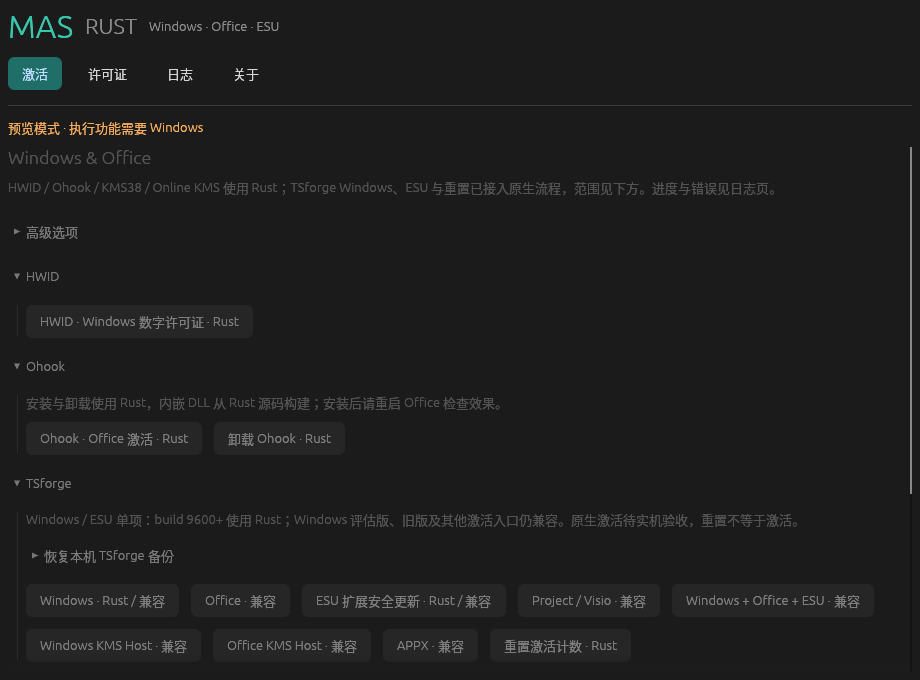
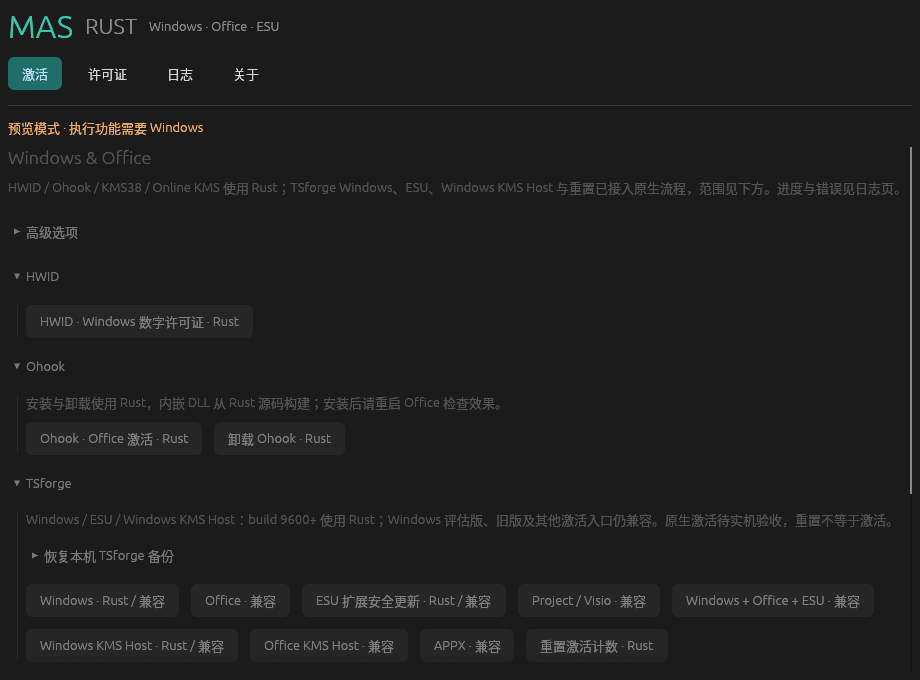
Enable native Windows KMS Host GUI entry and document its effects

Changed region(s): [[0.487, 0.2471, 0.9739, 0.3088], [0.1217, 0.7412, 0.9739, 0.7721], [0.1826, 0.9265, 0.7, 0.9574]]

diff --git a/src/app.rs b/src/app.rs
@@ -88,7 +88,7 @@ impl MasApp {
     }
     fn activation(&mut self, ui: &mut egui::Ui) {
         ui.heading("Windows & Office");
-        ui.label("HWID / Ohook / KMS38 / Online KMS 使用 Rust；TSforge Windows、ESU 与重置已接入原生流程，范围见下方。进度与错误见日志页。");
+        ui.label("HWID / Ohook / KMS38 / Online KMS 使用 Rust；TSforge Windows、ESU、Windows KMS Host 与重置已接入原生流程，范围见下方。进度与错误见日志页。");
         ui.add_space(8.0);
         ui.collapsing("高级选项", |ui| {
             ui.checkbox(
@@ -123,7 +123,7 @@ impl MasApp {
                     ui.colored_label(Color32::from_rgb(245,172,92), "历史功能：上游已移除；build 26100.7019 起相关机制失效。请核对系统兼容性。");
                 }
                 if category == "Ohook" {ui.label("安装与卸载使用 Rust，内嵌 DLL 从 Rust 源码构建；安装后请重启 Office 检查效果。");}
-                if category == "TSforge" { ui.label("Windows / ESU 单项：build 9600+ 使用 Rust；Windows 评估版、旧版及其他激活入口仍兼容。原生激活待实机验收，重置不等于激活。"); }
+                if category == "TSforge" { ui.label("Windows / ESU / Windows KMS Host：build 9600+ 使用 Rust；Windows 评估版、旧版及其他激活入口仍兼容。原生激活待实机验收，重置不等于激活。"); }
                 if category == "Online KMS" {
                     ui.label("原生支持 Windows、Office C2R 许可转换和 MSI 批量许可；可禁止自动转换。高级选项可指定服务器和端口，旧任务卸载仍在兼容菜单。");
                 }
@@ -140,7 +140,7 @@ impl MasApp {
                 }
                 ui.horizontal_wrapped(|ui| {
                     for op in engine::OPERATIONS.iter().filter(|op| op.category == category) {
-                        if ui.button(format!("{} · {}", op.title, if matches!(op.args, ["/Z-Windows"] | ["/Z-ESU"]) { "Rust / 兼容" } else if engine::is_native(*op) { "Rust" } else { "兼容" })).clicked() { self.pending = Some(Job::Engine(*op, self.options.clone())); }
+                        if ui.button(format!("{} · {}", op.title, if matches!(op.args, ["/Z-Windows"] | ["/Z-ESU"] | ["/Z-WinHost"]) { "Rust / 兼容" } else if engine::is_native(*op) { "Rust" } else { "兼容" })).clicked() { self.pending = Some(Job::Engine(*op, self.options.clone())); }
                     }
                 });
             });
@@ -347,6 +347,10 @@ impl MasApp {
                             }
                             if op.args == ["/Z-Reset"] {
                                 ui.label("将重置许可存储中的 rearm 计数、宽限/评估计时器及相关标记。每个阶段保留备份；这不等于激活系统。当前原生路径仅处理现代存储布局（build 9600+）。");
+                            }
+                            if op.args == ["/Z-WinHost"] {
+                                ui.label("这是 KMS 主机许可证，不是 KMS 客户端。将导入当前版本的 CSVLK 许可并安装主机密钥；Software Protection 服务会持续运行，部分 Windows 版本可能随后显示不同的版本名称。");
+                                ui.label("支持 StaticCID / ZeroCID，不支持 KMS4k。许可导入和密钥安装不自动撤销；如需回到普通 Windows 许可，请使用 Windows 单项激活。");
                             }
                             if op.args == ["/Ohook"] {
                                 ui.label("将安装 Office 许可和 Rust DLL，并清理用户许可缓存。请先关闭 Office；可能需要重新登录。");

diff --git a/src/engine.rs b/src/engine.rs
@@ -201,6 +201,12 @@ pub fn run(op: Operation, options: Options, report: &dyn Fn(&str)) -> Result<Str
             None => run_compatibility(op, options, report),
         };
     }
+    if op.args == ["/Z-WinHost"] {
+        return match crate::native::tsforge::activate_windows_host(options.ts_method, report)? {
+            Some(result) => Ok(result),
+            None => run_compatibility(op, options, report),
+        };
+    }
     if op.args == ["/Z-Reset"] {
         return crate::native::tsforge::reset(report);
     }
@@ -239,7 +245,12 @@ pub fn restore_tsforge(backup: &str, report: &dyn Fn(&str)) -> Result<String, St
 pub fn is_native(op: Operation) -> bool {
     matches!(
         op.args,
-        ["/Ohook"] | ["/Ohook-Uninstall"] | ["/Z-Reset"] | ["/Z-Windows"] | ["/Z-ESU"]
+        ["/Ohook"]
+            | ["/Ohook-Uninstall"]
+            | ["/Z-Reset"]
+            | ["/Z-Windows"]
+            | ["/Z-ESU"]
+            | ["/Z-WinHost"]
     ) || (!op.args.is_empty() && matches!(op.category, "HWID" | "KMS38" | "Online KMS"))
 }
 
@@ -377,6 +388,7 @@ mod tests {
                         | ["/Z-Reset"]
                         | ["/Z-Windows"]
                         | ["/Z-ESU"]
+                        | ["/Z-WinHost"]
                         | ["/Ohook"]
                         | ["/Ohook-Uninstall"]
                         | ["/KMS38"]

diff --git a/build.rs b/build.rs
@@ -135,7 +135,7 @@ fn main() {
             .set("LegalCopyright", "MAS Rust contributors")
             .set_manifest(
                 r#"<assembly xmlns="urn:schemas-microsoft-com:asm.v1" manifestVersion="1.0">
-  <assemblyIdentity version="0.6.0.4" processorArchitecture="*" name="MAS.Rust" type="win32"/>
+  <assemblyIdentity version="0.6.0.5" processorArchitecture="*" name="MAS.Rust" type="win32"/>
   <description>MAS Rust</description>
   <trustInfo xmlns="urn:schemas-microsoft-com:asm.v3">
     <security>

diff --git a/src/native/tsforge/windows_host.rs b/src/native/tsforge/windows_host.rs
@@ -1,6 +1,4 @@
-//! Windows KMS Host preparation and native activation. GUI integration follows
-//! validation of the license-import and generated CSVLK path.
-#![allow(dead_code)]
+//! Windows KMS Host license preparation and native activation from the GUI.
 use super::{
     activation_flow::{self, Method},
     connectivity, host_licenses,

diff --git a/src/native/tsforge/mod.rs b/src/native/tsforge/mod.rs
@@ -82,4 +82,6 @@ mod windows_context;
 mod windows_host;
 #[cfg(windows)]
 pub use windows_context::activate as activate_windows;
+#[cfg(windows)]
+pub use windows_host::activate as activate_windows_host;
 mod windows_edition;
